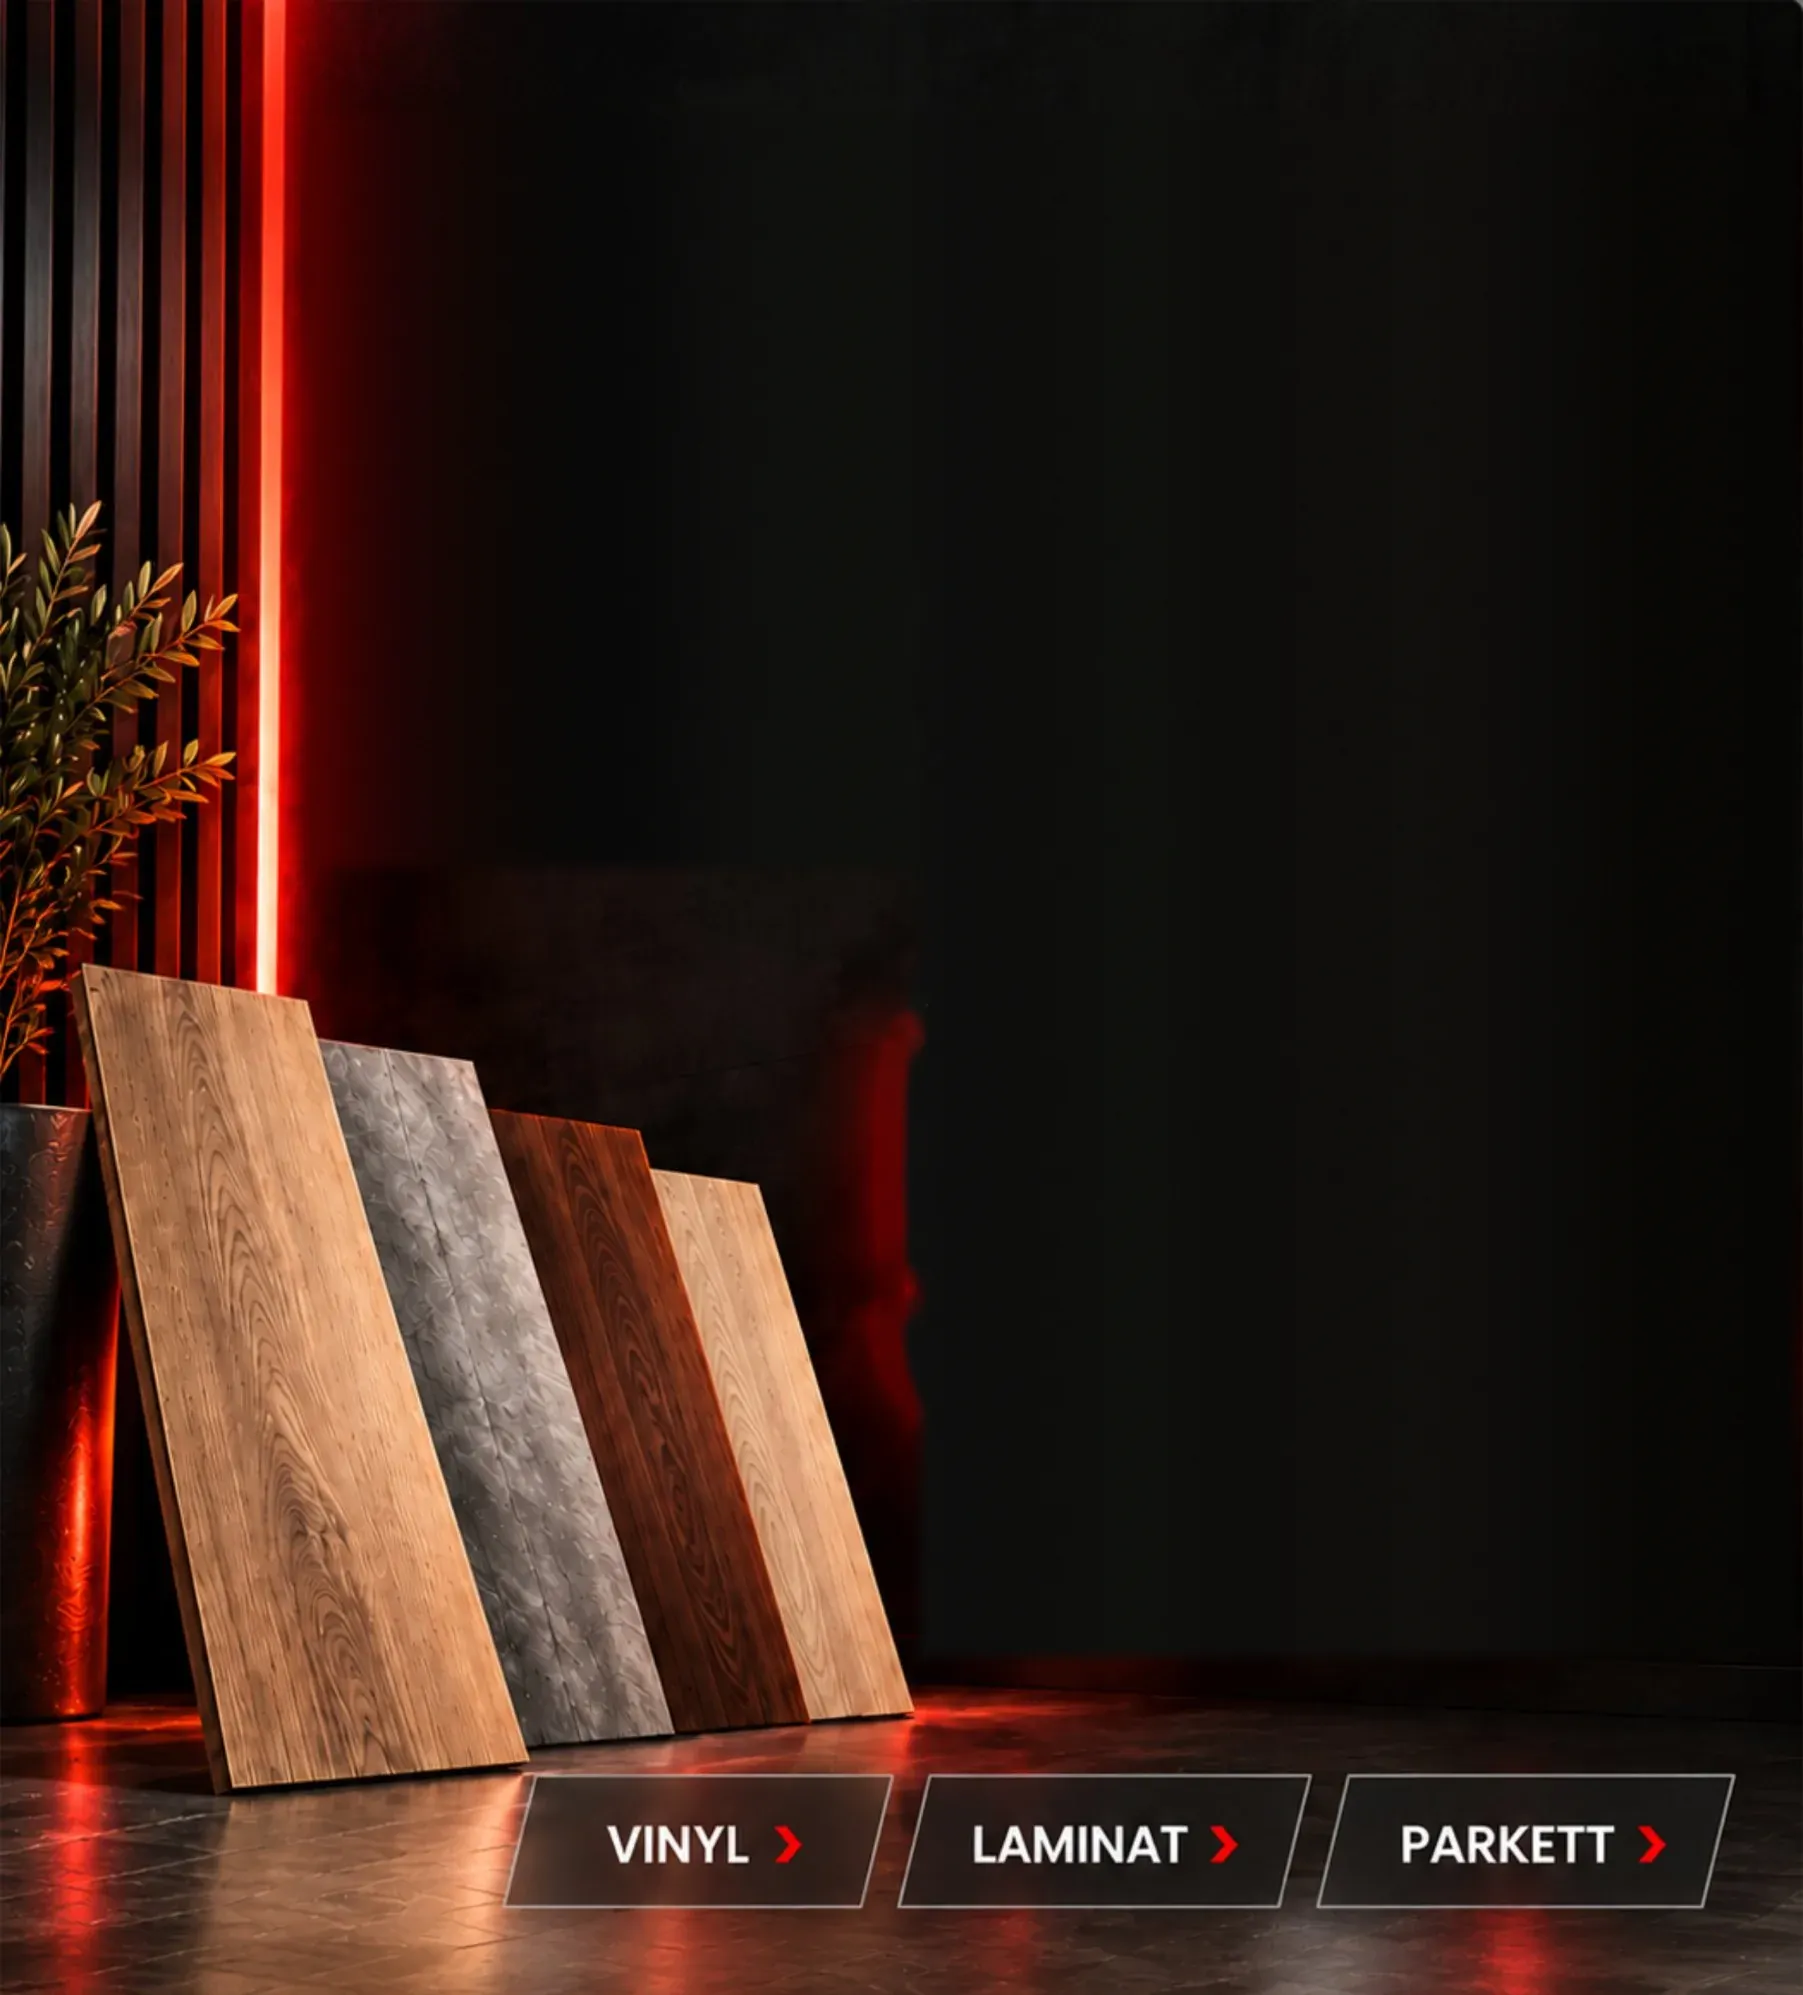
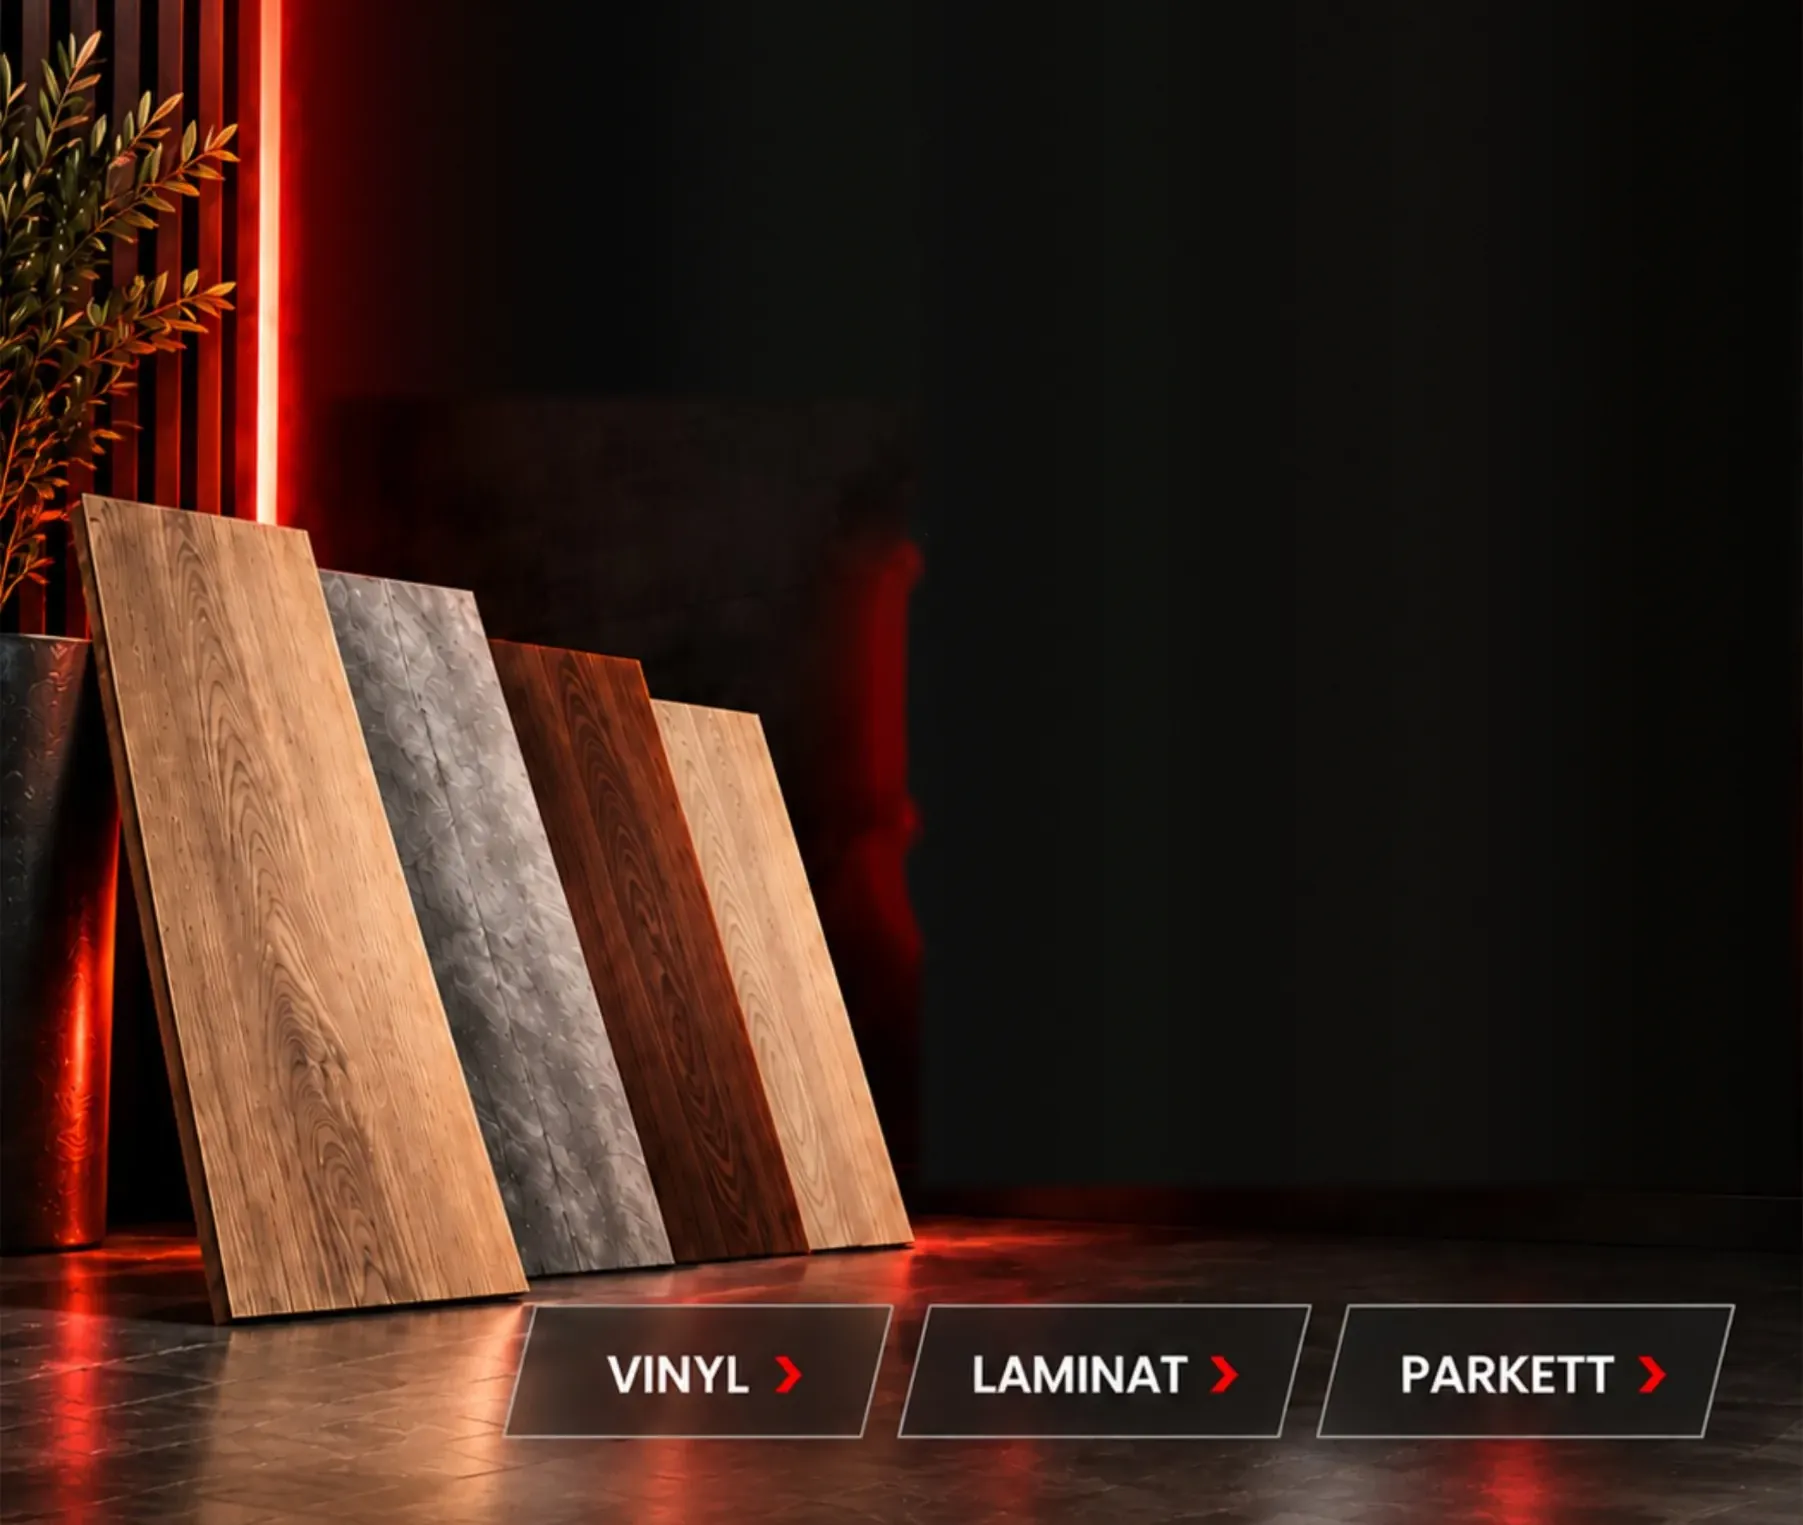
Vorschau: Aktionsbanner mobil kompakt (Schild, Dielen neben 50%, Kacheln) im Original-Look
Claude-Session: https://claude.ai/code/session_01VuGHjKpC1n5wq9UXibESNk

Changed region(s): [[0.0, 0.0, 0.9628, 0.9862], [0.9939, 0.9246, 1.0, 0.9554]]

diff --git a/src/components/startseite/AktionsBanner.tsx b/src/components/startseite/AktionsBanner.tsx
@@ -35,7 +35,8 @@ function platz(r: Raster, x: number, y: number, extra: { w?: number; h?: number;
 }
 
 const DESKTOP: Raster = { breite: 2576, hoehe: 1244 };
-const MOBIL: Raster = { breite: 1803, hoehe: 1995 };
+/* Mobil: Hochformat-Szene ab Bildzeile 470 bis 1995 – ohne Überschrift, dadurch kompakt */
+const MOBIL: Raster = { breite: 1803, hoehe: 1525 };
 
 function zweistellig(n: number) {
   return n < 10 ? `0${n}` : String(n);
@@ -218,28 +219,25 @@ export default function AktionsBanner({ aktion, ende }: { aktion: StartseitenAkt
         </div>
       </div>
 
-      {/* ── Handy: Hochformat-Motiv, unten gekürzt; Button und Countdown darunter ── */}
+      {/* ── Handy: kompakt – Schild, Dielen neben „50%“, Kacheln; Button und Countdown darunter ── */}
       <div className="overflow-hidden rounded-2xl bg-black text-white md:hidden">
         <div className="aktion-banner relative" style={{ ...rahmen, aspectRatio: `${MOBIL.breite} / ${MOBIL.hoehe}` }}>
           <Image src={aktion.szene.mobil} alt={aktion.szene.alt} fill priority sizes="100vw" className="object-cover" />
           <Link href={aktion.button.href} tabIndex={-1} aria-hidden="true" className="absolute inset-0" />
 
-          <p className="pointer-events-none absolute inset-x-0 flex items-center justify-center whitespace-nowrap font-bold uppercase leading-none tracking-[0.3em] text-white/90" style={{ top: `${(146 / MOBIL.hoehe) * 100}%`, fontSize: `${(38 / MOBIL.breite) * 100}cqw` }}>
+          <p className="pointer-events-none absolute inset-x-0 flex items-center justify-center whitespace-nowrap font-bold uppercase leading-none tracking-[0.3em] text-white/90" style={{ top: `${(62 / MOBIL.hoehe) * 100}%`, fontSize: `${(38 / MOBIL.breite) * 100}cqw` }}>
             <span className="mr-[1.4em] inline-block h-[0.14em] w-[3em]" style={{ backgroundColor: a }} aria-hidden="true" />
             {aktion.kicker}
             {aktion.kickerAkzent && <span className="ml-[0.5em]" style={{ color: a }}>{aktion.kickerAkzent}</span>}
           </p>
 
-          <Schild r={MOBIL} text={aktion.marke} klammerL={[340, 220, 720, 300]} klammerR={[1020, 188, 700, 300]} textBox={[330, 262, 1400, 200]} schrift={176} akzent={a} />
+          <Schild r={MOBIL} text={aktion.marke} klammerL={[340, 170, 720, 300]} klammerR={[1020, 138, 700, 300]} textBox={[330, 212, 1400, 200]} schrift={176} akzent={a} />
 
-          <p className="pointer-events-none absolute inset-x-0 text-center font-bold leading-[1.14] tracking-[-0.02em]" style={{ top: `${(572 / MOBIL.hoehe) * 100}%`, fontSize: `${(105 / MOBIL.breite) * 100}cqw` }}>
-            <Titel zeilen={aktion.titel} akzent={a} />
-          </p>
 
           <div className="aktion-rabatt pointer-events-none absolute inset-0">
-            <p className="absolute whitespace-nowrap font-bold leading-none" style={platz(MOBIL, 894, 950, { schrift: 66 })}>{r.oben}</p>
-            {zahl(MOBIL, 872, 960, 514)}
-            <p className="absolute whitespace-nowrap font-bold leading-none" style={{ ...platz(MOBIL, 914, 1385, { schrift: 203 }), textShadow: '0 0.03em 0 #9a9a9a, 0 0 0.25em rgba(255,42,42,.55)' }}>
+            <p className="absolute whitespace-nowrap font-bold leading-none" style={platz(MOBIL, 894, 488, { schrift: 66 })}>{r.oben}</p>
+            {zahl(MOBIL, 872, 498, 514)}
+            <p className="absolute whitespace-nowrap font-bold leading-none" style={{ ...platz(MOBIL, 914, 923, { schrift: 203 }), textShadow: '0 0.03em 0 #9a9a9a, 0 0 0.25em rgba(255,42,42,.55)' }}>
               {r.unten}
             </p>
           </div>
@@ -247,7 +245,7 @@ export default function AktionsBanner({ aktion, ende }: { aktion: StartseitenAkt
           <div className="pointer-events-none absolute inset-0 [&>*]:pointer-events-auto">
             {aktion.links.map((l, i) => {
               const spalten = [[505, 386], [898, 413], [1316, 416]][i] ?? [505, 386];
-              return <Kachel key={l.label} r={MOBIL} x={spalten[0]} y={1775} w={spalten[1]} h={131} schrift={58} href={l.href} label={l.label} akzent={a} />;
+              return <Kachel key={l.label} r={MOBIL} x={spalten[0]} y={1305} w={spalten[1]} h={131} schrift={58} href={l.href} label={l.label} akzent={a} />;
             })}
           </div>
 

diff --git a/src/content/startseite-aktion.ts b/src/content/startseite-aktion.ts
@@ -25,7 +25,7 @@ export interface StartseitenAktion {
   /** Bodenart-Kacheln, zugleich die Zeile „Vinyl • Laminat • Parkett“ */
   links: Array<{ label: string; href: string }>;
   button: { label: string; href: string };
-  /** Szene ohne Schrift: Desktop 2576×1244, mobil 1803×1995 */
+  /** Szene ohne Schrift: Desktop 2576×1244, mobil 1803×1525 */
   szene: { desktop: string; mobil: string; alt: string };
   akzent: string;
 }
